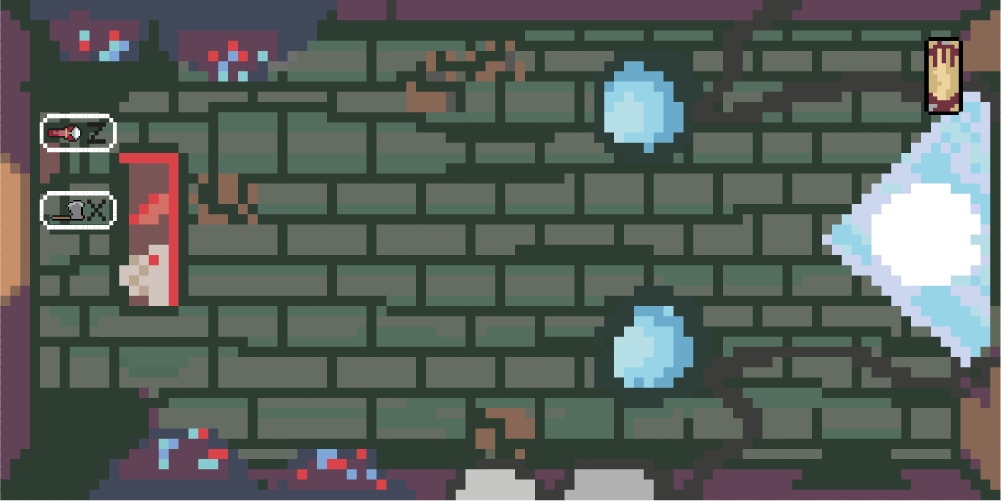
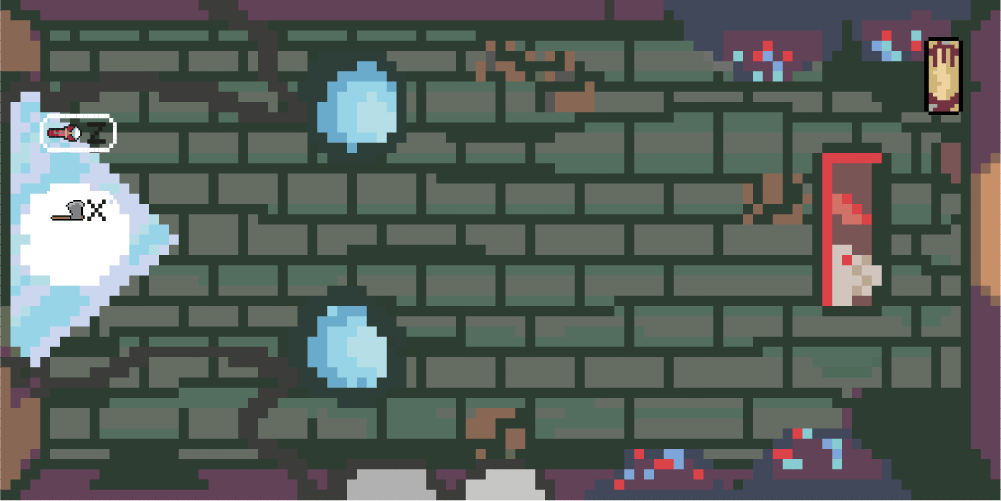
cambios finales

diff --git a/sketch.js b/sketch.js
@@ -30,7 +30,6 @@ let inicial,
   fuegorosa,
   corazon,
   linterna;
-  
 
 let vida = [];
 
@@ -45,8 +44,8 @@ let abuelaF = new AbuelaF(500, 50, 1);
 let abueloF = new AbueloF(500, 50, 1);
 let gnomoI = new Gnomo(688, 100, 1);
 let hombreTauroI = new HombreTauro(813, 100, 0);
-let rosaI = new Rosa(500, 100, 1);
-let billI = new Bill(745, 100, 0);
+let rosaI = new Rosa(230, 100, 1);
+let billI = new Bill(134, 100, 0);
 
 let libro = false;
 let recolectadoP = false;
@@ -59,7 +58,6 @@ let dipperr = false;
 let logolpean = false;
 let presionado = false;
 let armaP;
-
 
 let pantalla = 0;
 let x = 287;
@@ -237,8 +235,8 @@ function draw() {
           logolpean = false;
         }, 500);
       }
-      
-        /* let armaX = personaje.getTiro()[index].x; // obtenemosX
+
+      /* let armaX = personaje.getTiro()[index].x; // obtenemosX
         let armaY = personaje.getTiro()[index].y; // obtenemosY
         if (enemigoB[i].verificarImpactoE(armaX, armaY)) {
           // verificamos el contacto
@@ -565,6 +563,30 @@ function draw() {
       hombreTauroI.moverB();
       hombreTauroI.rebotarB();
 
+      //perder vida con contacto gnomo
+      if (gnomoI.verificarImpacto(personaje.x, personaje.y) && !logolpean) {
+        logolpean = true;
+        personaje.reducirVida();
+      }
+      if (logolpean) {
+        setTimeout(() => {
+          logolpean = false;
+        }, 500);
+      }
+      //perder vida con contacto hombretauro
+      if (
+        hombreTauroI.verificarImpacto(personaje.x, personaje.y) &&
+        !logolpean
+      ) {
+        logolpean = true;
+        personaje.reducirVida();
+      }
+      if (logolpean) {
+        setTimeout(() => {
+          logolpean = false;
+        }, 500);
+      }
+
       //intrucciones del diario
       if (libro) {
         noStroke();
@@ -575,18 +597,28 @@ function draw() {
         fill(0);
         textSize(15);
         if (libro) {
-          text("Elimina a tus enemigos ¡usa tus armas (z-x) !", 200, 481);
+          text(
+            "Elimina a tus enemigos y cruza el bosque ¡usa tus armas (z-x) !",
+            200,
+            481
+          );
         }
       }
 
-      
-
+      if (
+        personaje.x > 887 &&
+        personaje.x < 999 &&
+        personaje.y > 1 &&
+        personaje.y < 499
+      ) {
+        pantalla = 7;
+      }
 
       break;
 
     case 7:
       image(portal, 0, 0); //pantalla laboratorio y portal
-      personaje.mostrar();
+
       fill(0);
       textSize(36);
       text("6", 930, 98);
@@ -610,8 +642,38 @@ function draw() {
       if (dipperr === true) {
         personaje.mostrarDipper();
       }
-
       mostrarVidas();
+
+      //cualidades rosa
+      rosaI.mostrarB();
+      rosaI.moverB();
+      rosaI.rebotarB();
+
+      //cualidades bill
+      billI.mostrarB();
+      billI.moverB();
+      billI.rebotarB();
+
+      //perder vida con contacto gnomo
+      if (rosaI.verificarImpacto(personaje.x, personaje.y) && !logolpean) {
+        logolpean = true;
+        personaje.reducirVida();
+      }
+      if (logolpean) {
+        setTimeout(() => {
+          logolpean = false;
+        }, 500);
+      }
+      //perder vida con contacto hombretauro
+      if (billI.verificarImpacto(personaje.x, personaje.y) && !logolpean) {
+        logolpean = true;
+        personaje.reducirVida();
+      }
+      if (logolpean) {
+        setTimeout(() => {
+          logolpean = false;
+        }, 500);
+      }
 
       //intrucciones del diario
       if (libro) {
@@ -631,15 +693,14 @@ function draw() {
         }
       }
 
-      //cualidades rosa
-      rosaI.mostrarB();
-      rosaI.moverB();
-      rosaI.rebotarB();
-
-      //cualidades bill
-      billI.mostrarB();
-      billI.moverB();
-      billI.rebotarB();
+      if (
+        personaje.x > 1 &&
+        personaje.x < 71 &&
+        personaje.y > 1 &&
+        personaje.y < 499
+      ) {
+        pantalla = 9;
+      }
 
       break;
     case 8:

diff --git a/Personaje.js b/Personaje.js
@@ -31,7 +31,6 @@ class Personaje {
       this.removerTiroInactivo();
       this.removerEnemigo();
     }
-    
   }
   disparar() {
     this.armaP.push(new ArmaP(this.x, this.y));
@@ -49,8 +48,8 @@ class Personaje {
   }
 
   removerTiroInactivo() {
-    for (let i = 0; i < this.armaP.lenght || this.armaR.length; i++) {
-      if (!this.armaP[i].estaActivo() || !this.armaR[i].estaActivo()) {
+    for (let i = 0; i < this.armaP.lenght && this.armaR.length; i++) {
+      if (!this.armaP[i].estaActivo() && !this.armaR[i].estaActivo()) {
         //remover
         break;
       }
@@ -91,22 +90,22 @@ class Personaje {
   dispararGeneral() {
     switch (key) {
       case "X":
-        if (pantalla === 6) {
+        if (pantalla === 6 && 7) {
           this.disparar();
         }
         break;
       case "x":
-        if (pantalla === 6) {
+        if (pantalla === 6 && 7) {
           this.disparar();
         }
         break;
       case "Z":
-        if (pantalla === 6) {
+        if (pantalla === 6 && 7) {
           this.dispararRayos();
         }
         break;
       case "z":
-        if (pantalla === 6) {
+        if (pantalla === 6 && 7) {
           this.dispararRayos();
         }
         break;

diff --git a/Hombretauro.js b/Hombretauro.js
@@ -1,14 +1,30 @@
-class HombreTauro extends EnemigoB{
-    constructor(x, y, dir,vel) {
-      super(x, y, dir, vel);
-    
-          this.x = x;
-          this.y = y;
-          this.dir = dir;
-          this.vel = 2;
-      }
-    
-      mostrarB() {
-        image(hombreTauro, this.x, this.y);
-      }
+class HombreTauro extends EnemigoB {
+  constructor(x, y, dir, vel) {
+    super(x, y, dir, vel);
+
+    this.x = x;
+    this.y = y;
+    this.dir = dir;
+    this.vel = 2;
+  }
+
+  mostrarB() {
+    image(hombreTauro, this.x, this.y);
+  }
+  verificarImpacto() {
+    // además de marcarlo como muerto... retorna el valor para usarlo
+    if (
+      this.x > personaje.x &&
+      this.x < personaje.x + 78 &&
+      this.y > personaje.y &&
+      this.y < personaje.y + 117
+    ) {
+      this.muerto = true; // muere cuando lo tocan no?
+      return true;
     }
+    return false;
+  }
+  estaMuerto() {
+    return this.muerto;
+  }
+}

diff --git a/Gnomo.js b/Gnomo.js
@@ -1,14 +1,31 @@
-class Gnomo extends EnemigoB{
-    constructor(x, y, dir,vel) {
-      super(x, y, dir, vel);
-    
-          this.x = x;
-          this.y = y;
-          this.dir = dir;
-          this.vel = 2;
-      }
-    
-      mostrarB() {
-        image(gnomo, this.x, this.y);
-      }
+class Gnomo extends EnemigoB {
+  constructor(x, y, dir, vel) {
+    super(x, y, dir, vel);
+
+    this.x = x;
+    this.y = y;
+    this.dir = dir;
+    this.vel = 2;
+  }
+
+  mostrarB() {
+    image(gnomo, this.x, this.y);
+  }
+
+  verificarImpacto() {
+    // además de marcarlo como muerto... retorna el valor para usarlo
+    if (
+      this.x > personaje.x &&
+      this.x < personaje.x + 78 &&
+      this.y > personaje.y &&
+      this.y < personaje.y + 117
+    ) {
+      this.muerto = true; // muere cuando lo tocan no?
+      return true;
     }
+    return false;
+  }
+  estaMuerto() {
+    return this.muerto;
+  }
+}

diff --git a/Bill.js b/Bill.js
@@ -11,4 +11,20 @@ class Bill extends EnemigoB {
   mostrarB() {
     image(bill, this.x, this.y);
   }
+  verificarImpacto() {
+    // además de marcarlo como muerto... retorna el valor para usarlo
+    if (
+      this.x > personaje.x &&
+      this.x < personaje.x + 78 &&
+      this.y > personaje.y &&
+      this.y < personaje.y + 117
+    ) {
+      this.muerto = true; // muere cuando lo tocan no?
+      return true;
+    }
+    return false;
+  }
+  estaMuerto() {
+    return this.muerto;
+  }
 }

diff --git a/Rosa.js b/Rosa.js
@@ -11,4 +11,20 @@ class Rosa extends EnemigoB {
   mostrarB() {
     image(rosa, this.x, this.y);
   }
+  verificarImpacto() {
+    // además de marcarlo como muerto... retorna el valor para usarlo
+    if (
+      this.x > personaje.x &&
+      this.x < personaje.x + 78 &&
+      this.y > personaje.y &&
+      this.y < personaje.y + 117
+    ) {
+      this.muerto = true; // muere cuando lo tocan no?
+      return true;
+    }
+    return false;
+  }
+  estaMuerto() {
+    return this.muerto;
+  }
 }

diff --git a/EnemigoB.js b/EnemigoB.js
@@ -3,7 +3,7 @@ class EnemigoB {
     this.x = x;
     this.y = 100;
     this.dir = dir;
-    this.vel = 5;
+    this.vel = 4;
     this.muerto = false;
   }
 

diff --git a/ArmaP.js b/ArmaP.js
@@ -6,7 +6,7 @@ class ArmaP {
   }
 
   mostrar() {
-    image(hachaizq, this.x, this.y);
+    image(hachader, this.x, this.y);
     this.mover();
   }
 
